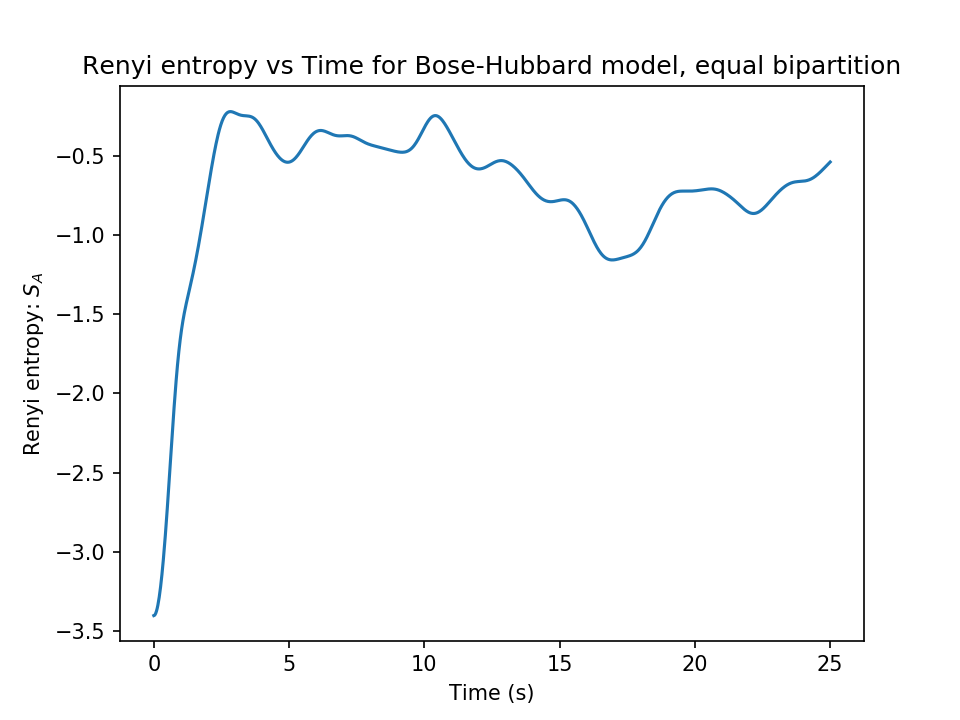
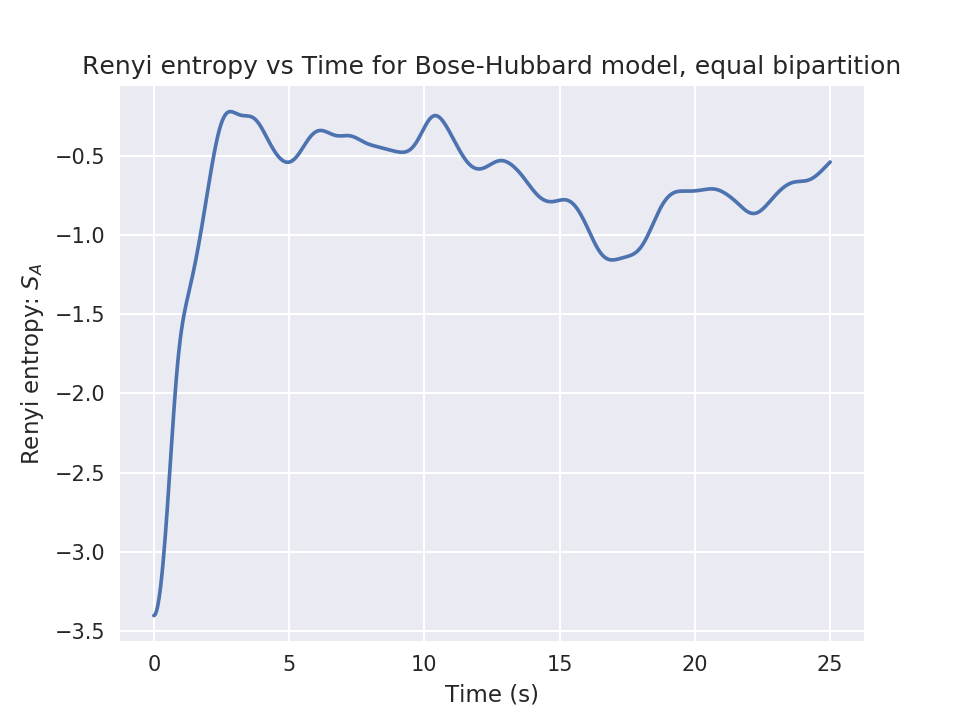
Work 2 19.04.18

diff --git a/proj.py b/proj.py
@@ -13,8 +13,8 @@ import numpy as np
 import itertools
 from copy import deepcopy
 import matplotlib.pyplot as plt
-#import seaborn as sns
-#sns.set()
+import seaborn as sns
+sns.set()
 
 class tColors:
     """
